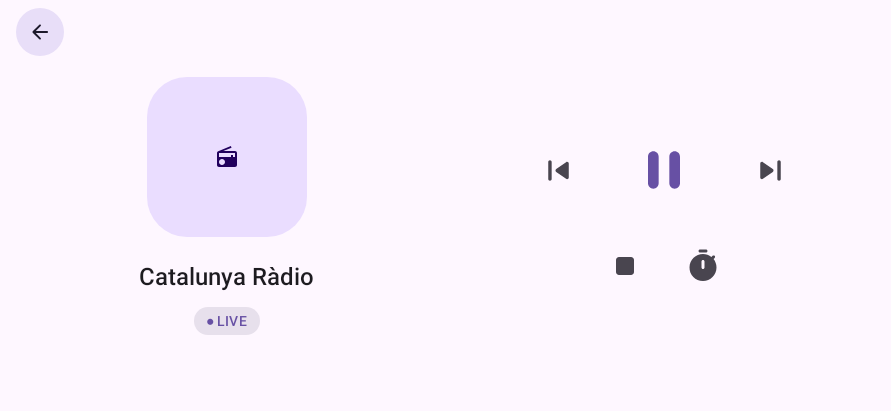
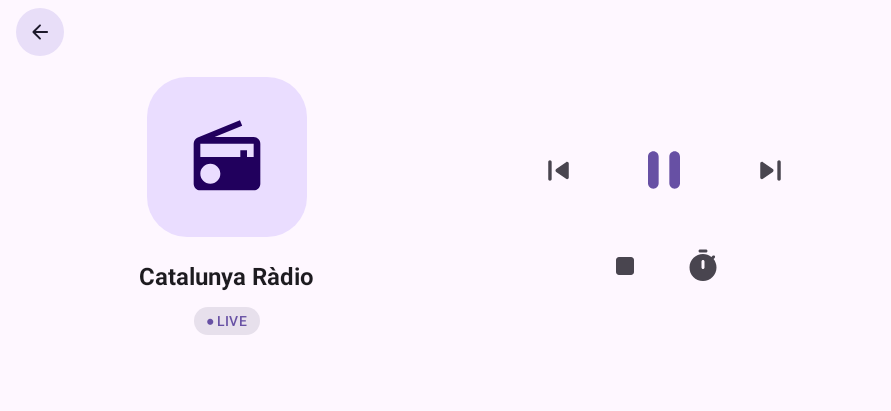
[feature/streaming_radio] feat(radio): refactor PlayerInfo component by removing unused parameters and adjusting text weight for better emphasis

Changed region(s): [[0.2121, 0.292, 0.303, 0.4672], [0.1515, 0.6423, 0.3636, 0.7007]]

diff --git a/feature/radio/src/main/java/com/alxnophis/jetpack/radio/ui/composable/RadioPlayerScreen.kt b/feature/radio/src/main/java/com/alxnophis/jetpack/radio/ui/composable/RadioPlayerScreen.kt
@@ -74,6 +74,11 @@ import com.alxnophis.jetpack.radio.ui.contract.RadioPlayerEvent
 import com.alxnophis.jetpack.radio.ui.viewmodel.RadioPlayerViewModel
 import org.koin.androidx.compose.koinViewModel
 
+private const val ICON_RATIO = 0.6f
+private val PRIMARY_ICON_SIZE = 64.dp
+private val RIPPLE_CORNER_RADIUS = 16.dp
+private val BANNER_MAX_WIDTH = 420.dp
+
 @Composable
 fun RadioPlayerFeature(onBack: () -> Unit) {
     NotificationPermissionRequest()
@@ -126,7 +131,6 @@ internal fun RadioPlayerScreen(
             ) {
                 PlayerInfo(
                     uiState = uiState,
-                    handleEvent = handleEvent,
                     iconSize = 160.dp,
                     modifier = Modifier.weight(1f),
                 )
@@ -149,7 +153,6 @@ internal fun RadioPlayerScreen(
             ) {
                 PlayerInfo(
                     uiState = uiState,
-                    handleEvent = handleEvent,
                     iconSize = 200.dp,
                 )
                 PlayerControls(
@@ -200,15 +203,9 @@ internal fun RadioPlayerScreen(
     }
 }
 
-private const val ICON_RATIO = 0.6f
-private val PRIMARY_ICON_SIZE = 64.dp
-private val RIPPLE_CORNER_RADIUS = 16.dp
-private val BANNER_MAX_WIDTH = 420.dp
-
 @Composable
 private fun PlayerInfo(
     uiState: PlayerUiState,
-    handleEvent: (RadioPlayerEvent) -> Unit,
     iconSize: Dp,
     modifier: Modifier = Modifier,
 ) {
@@ -221,7 +218,7 @@ private fun PlayerInfo(
         Text(
             text = uiState.stationName.orEmpty(),
             style = MaterialTheme.typography.headlineSmall,
-            fontWeight = FontWeight.Medium,
+            fontWeight = FontWeight.Bold,
             textAlign = TextAlign.Center,
             color = MaterialTheme.colorScheme.onSurface,
         )
